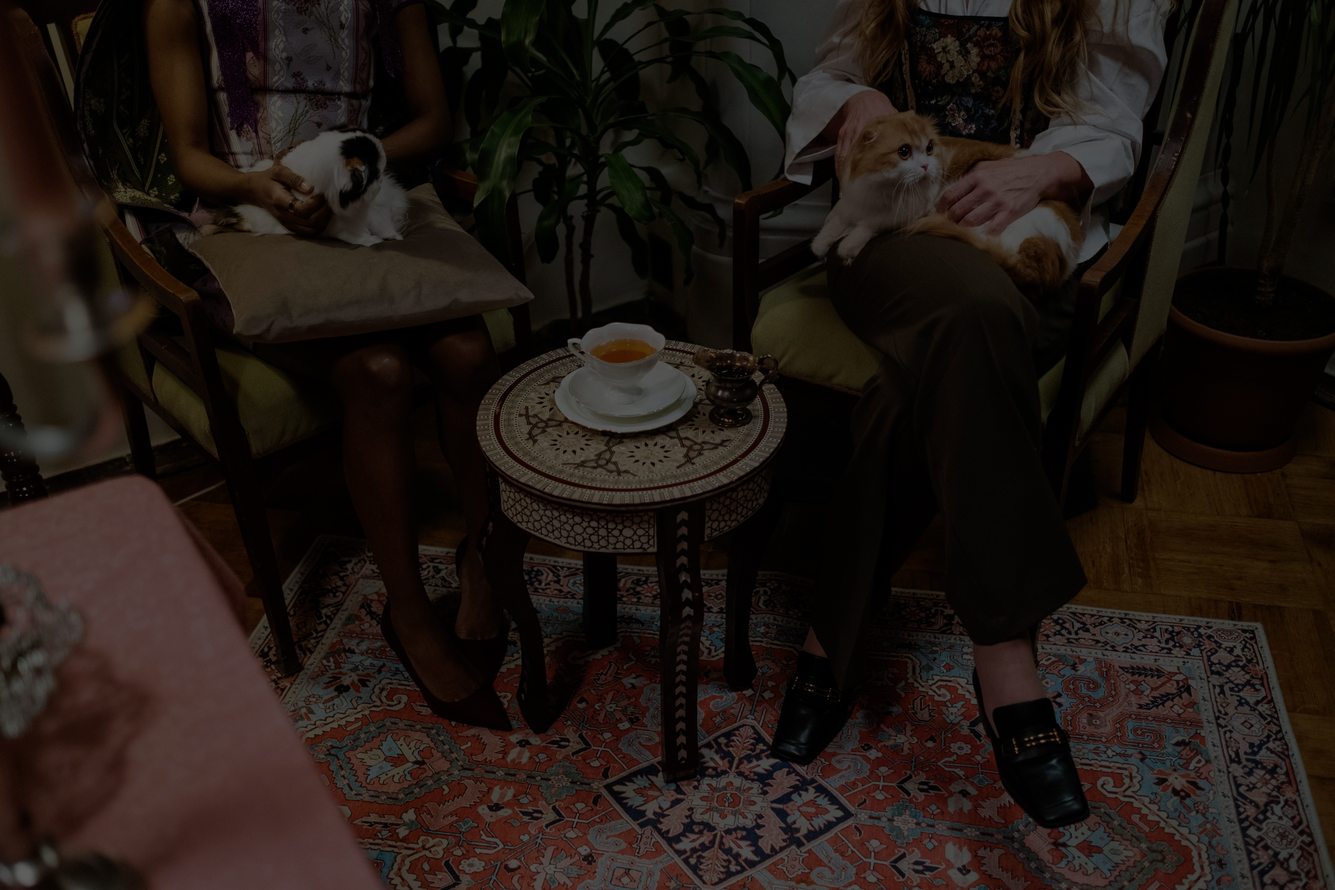
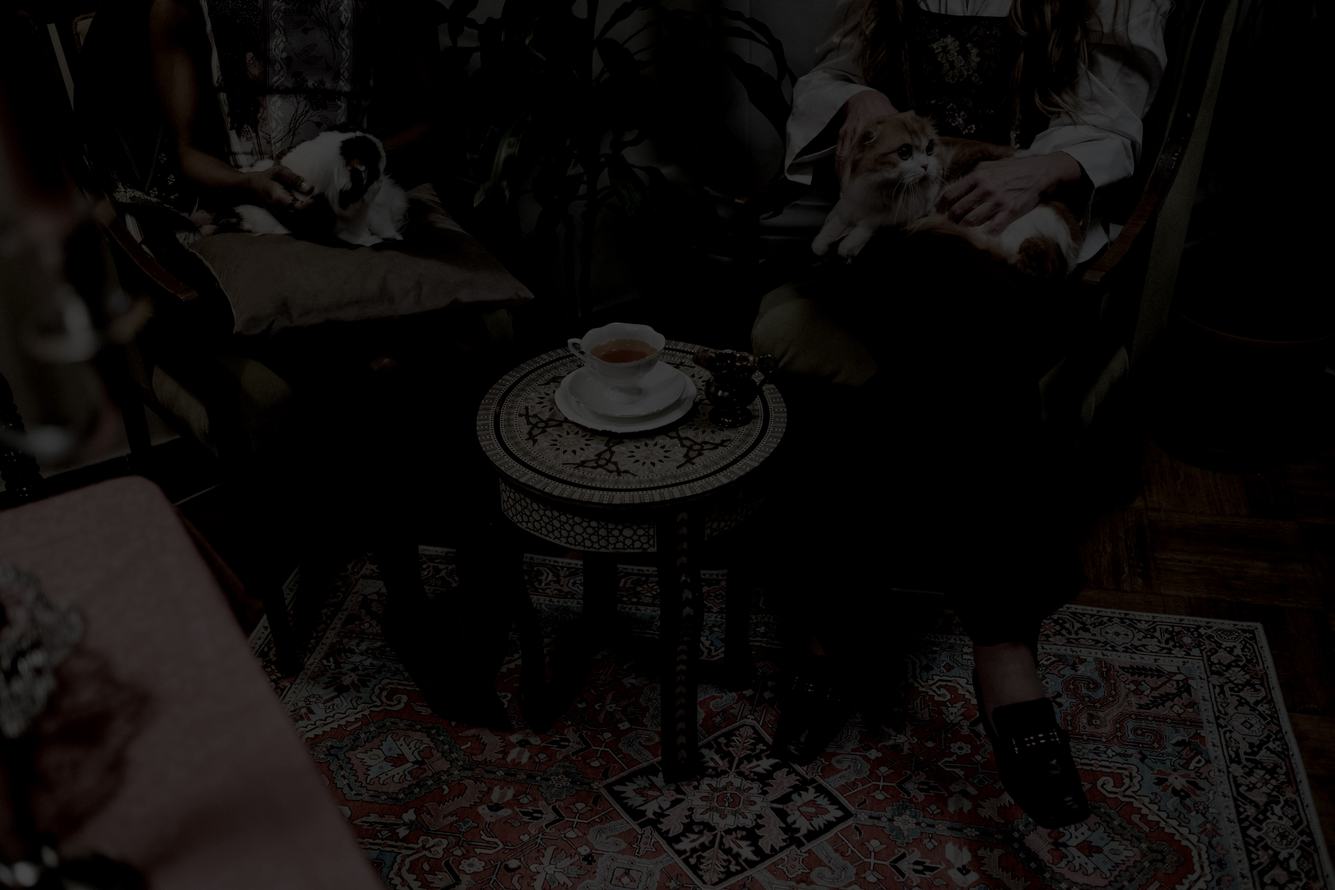
updated hero image
image and alt

diff --git a/styles.css b/styles.css
@@ -44,7 +44,7 @@ html, body {
     background-size: cover;
     background-position: center;
     height: 100%;    
-    alt: "Two ladies sitting down having tea with cats on their lap"
+    alt: "Dimmed image  of two ladies sitting down having tea with cats on their lap"
 }
 .hero-text {
     position: absolute;
